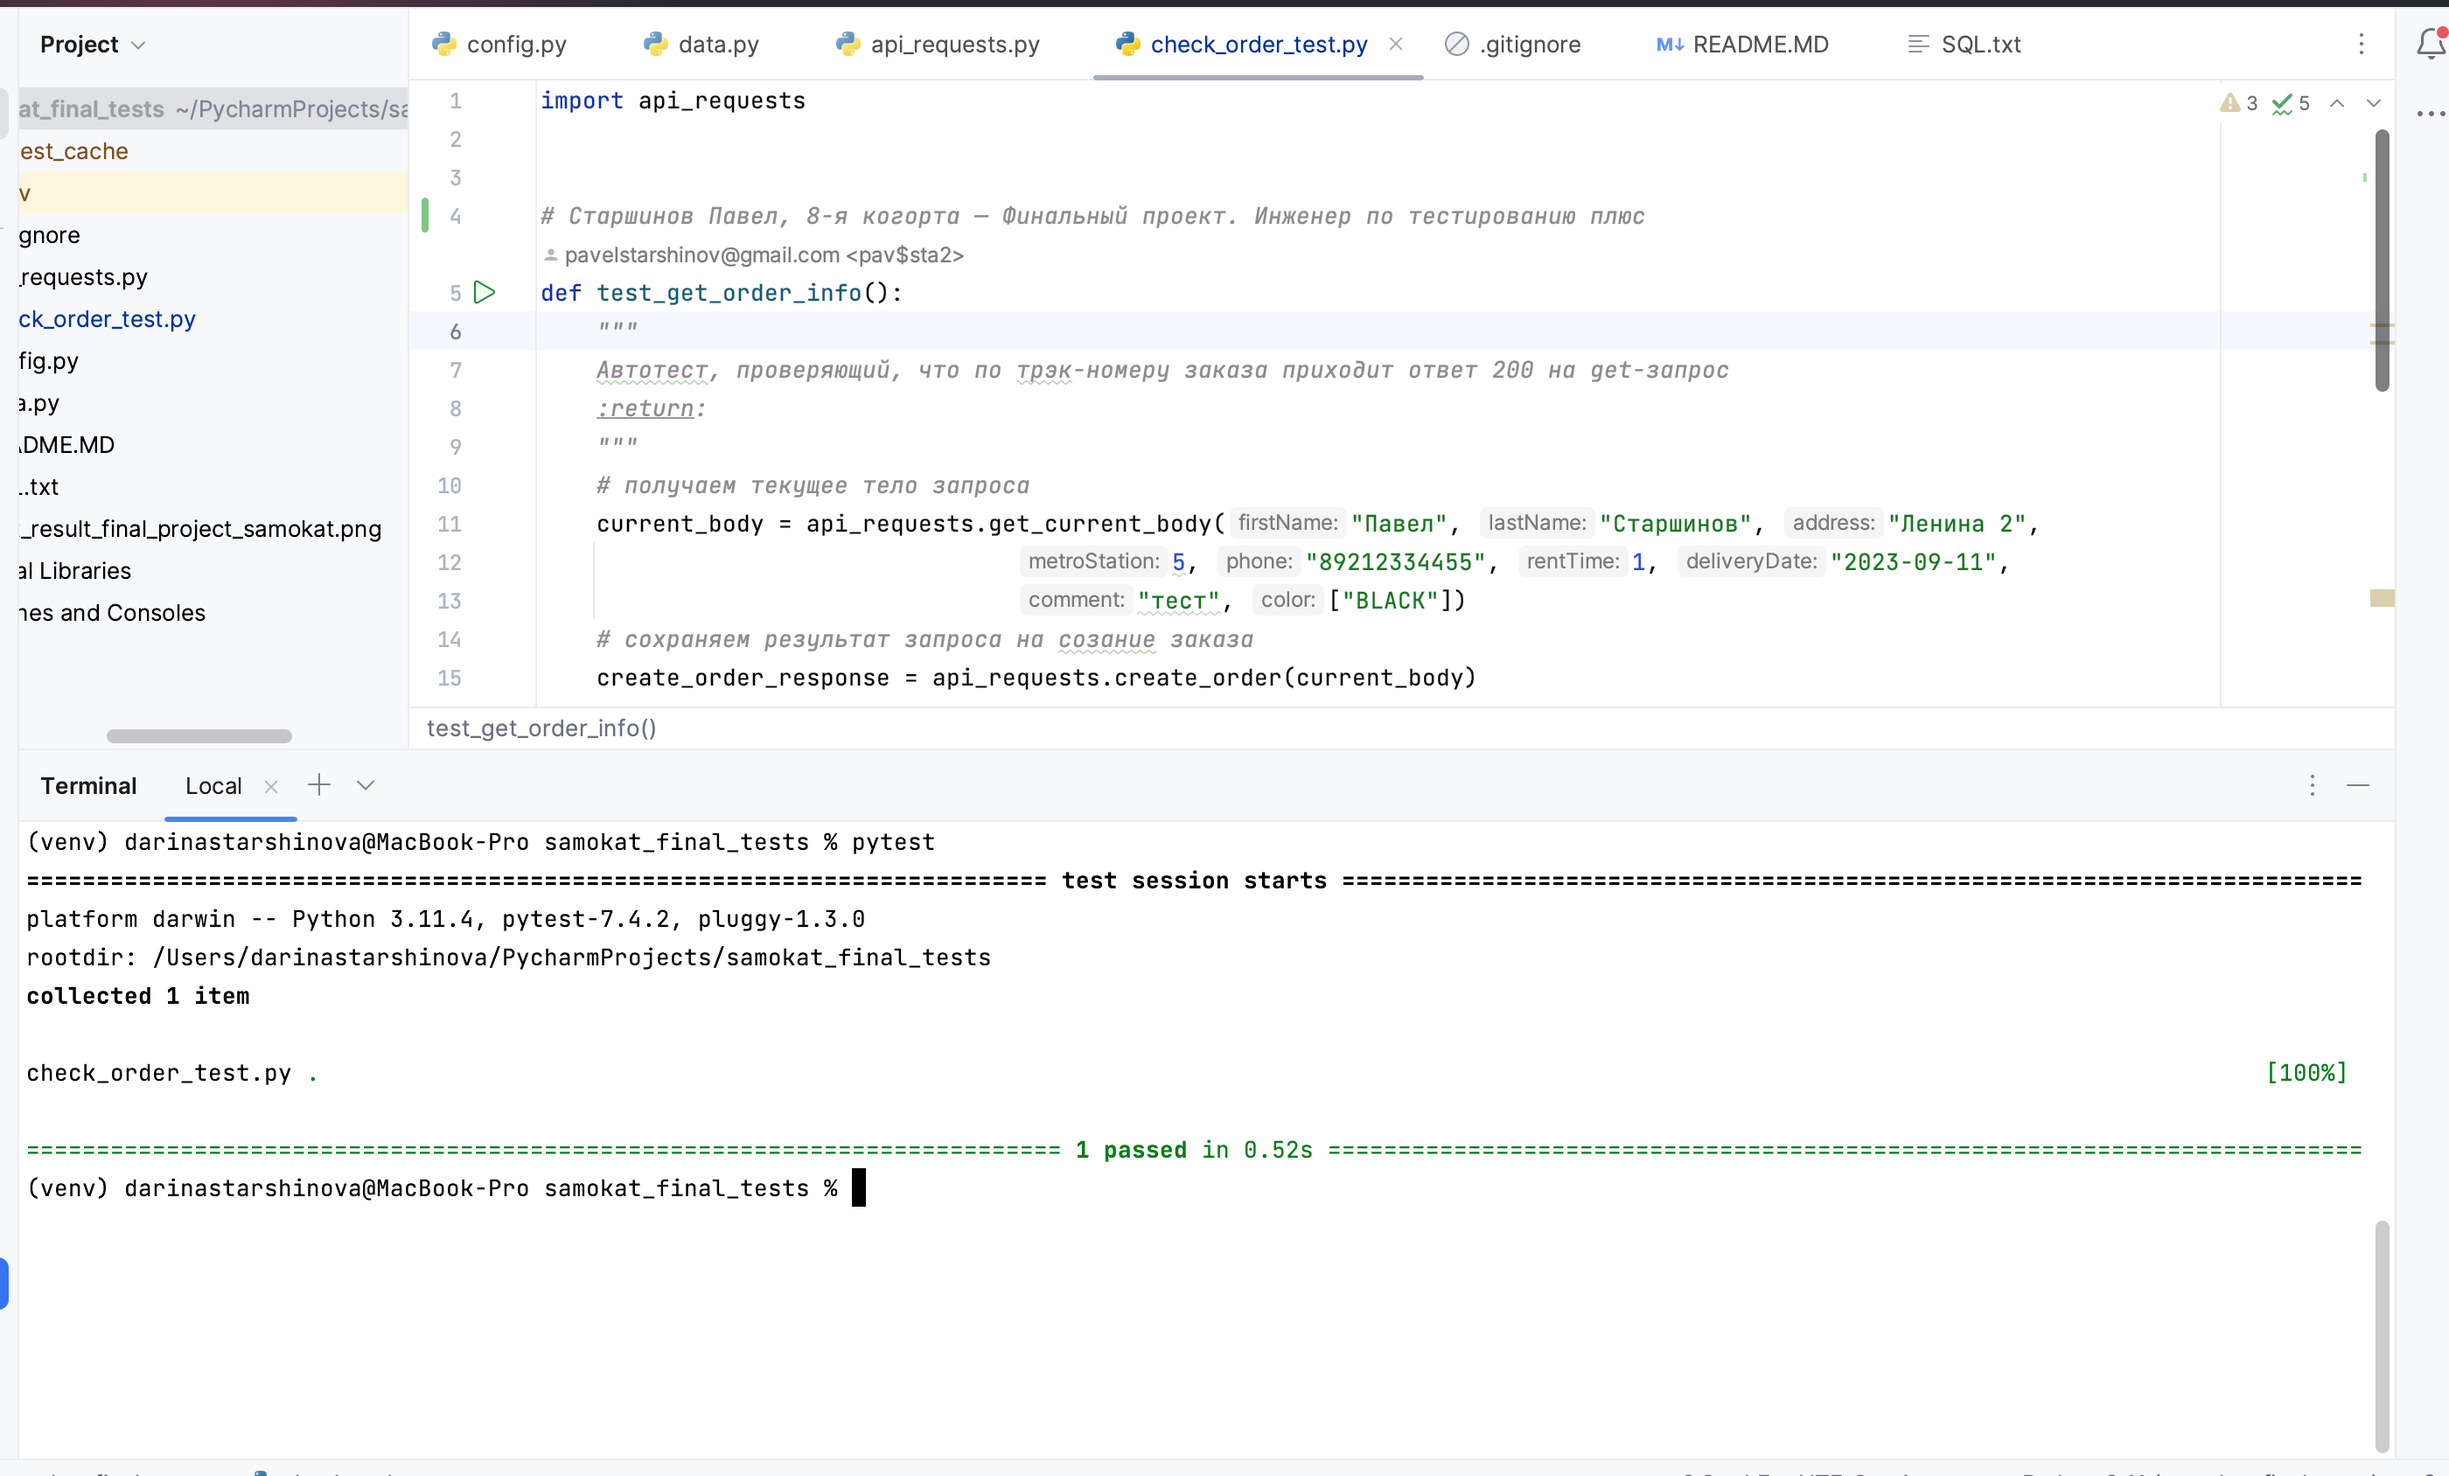
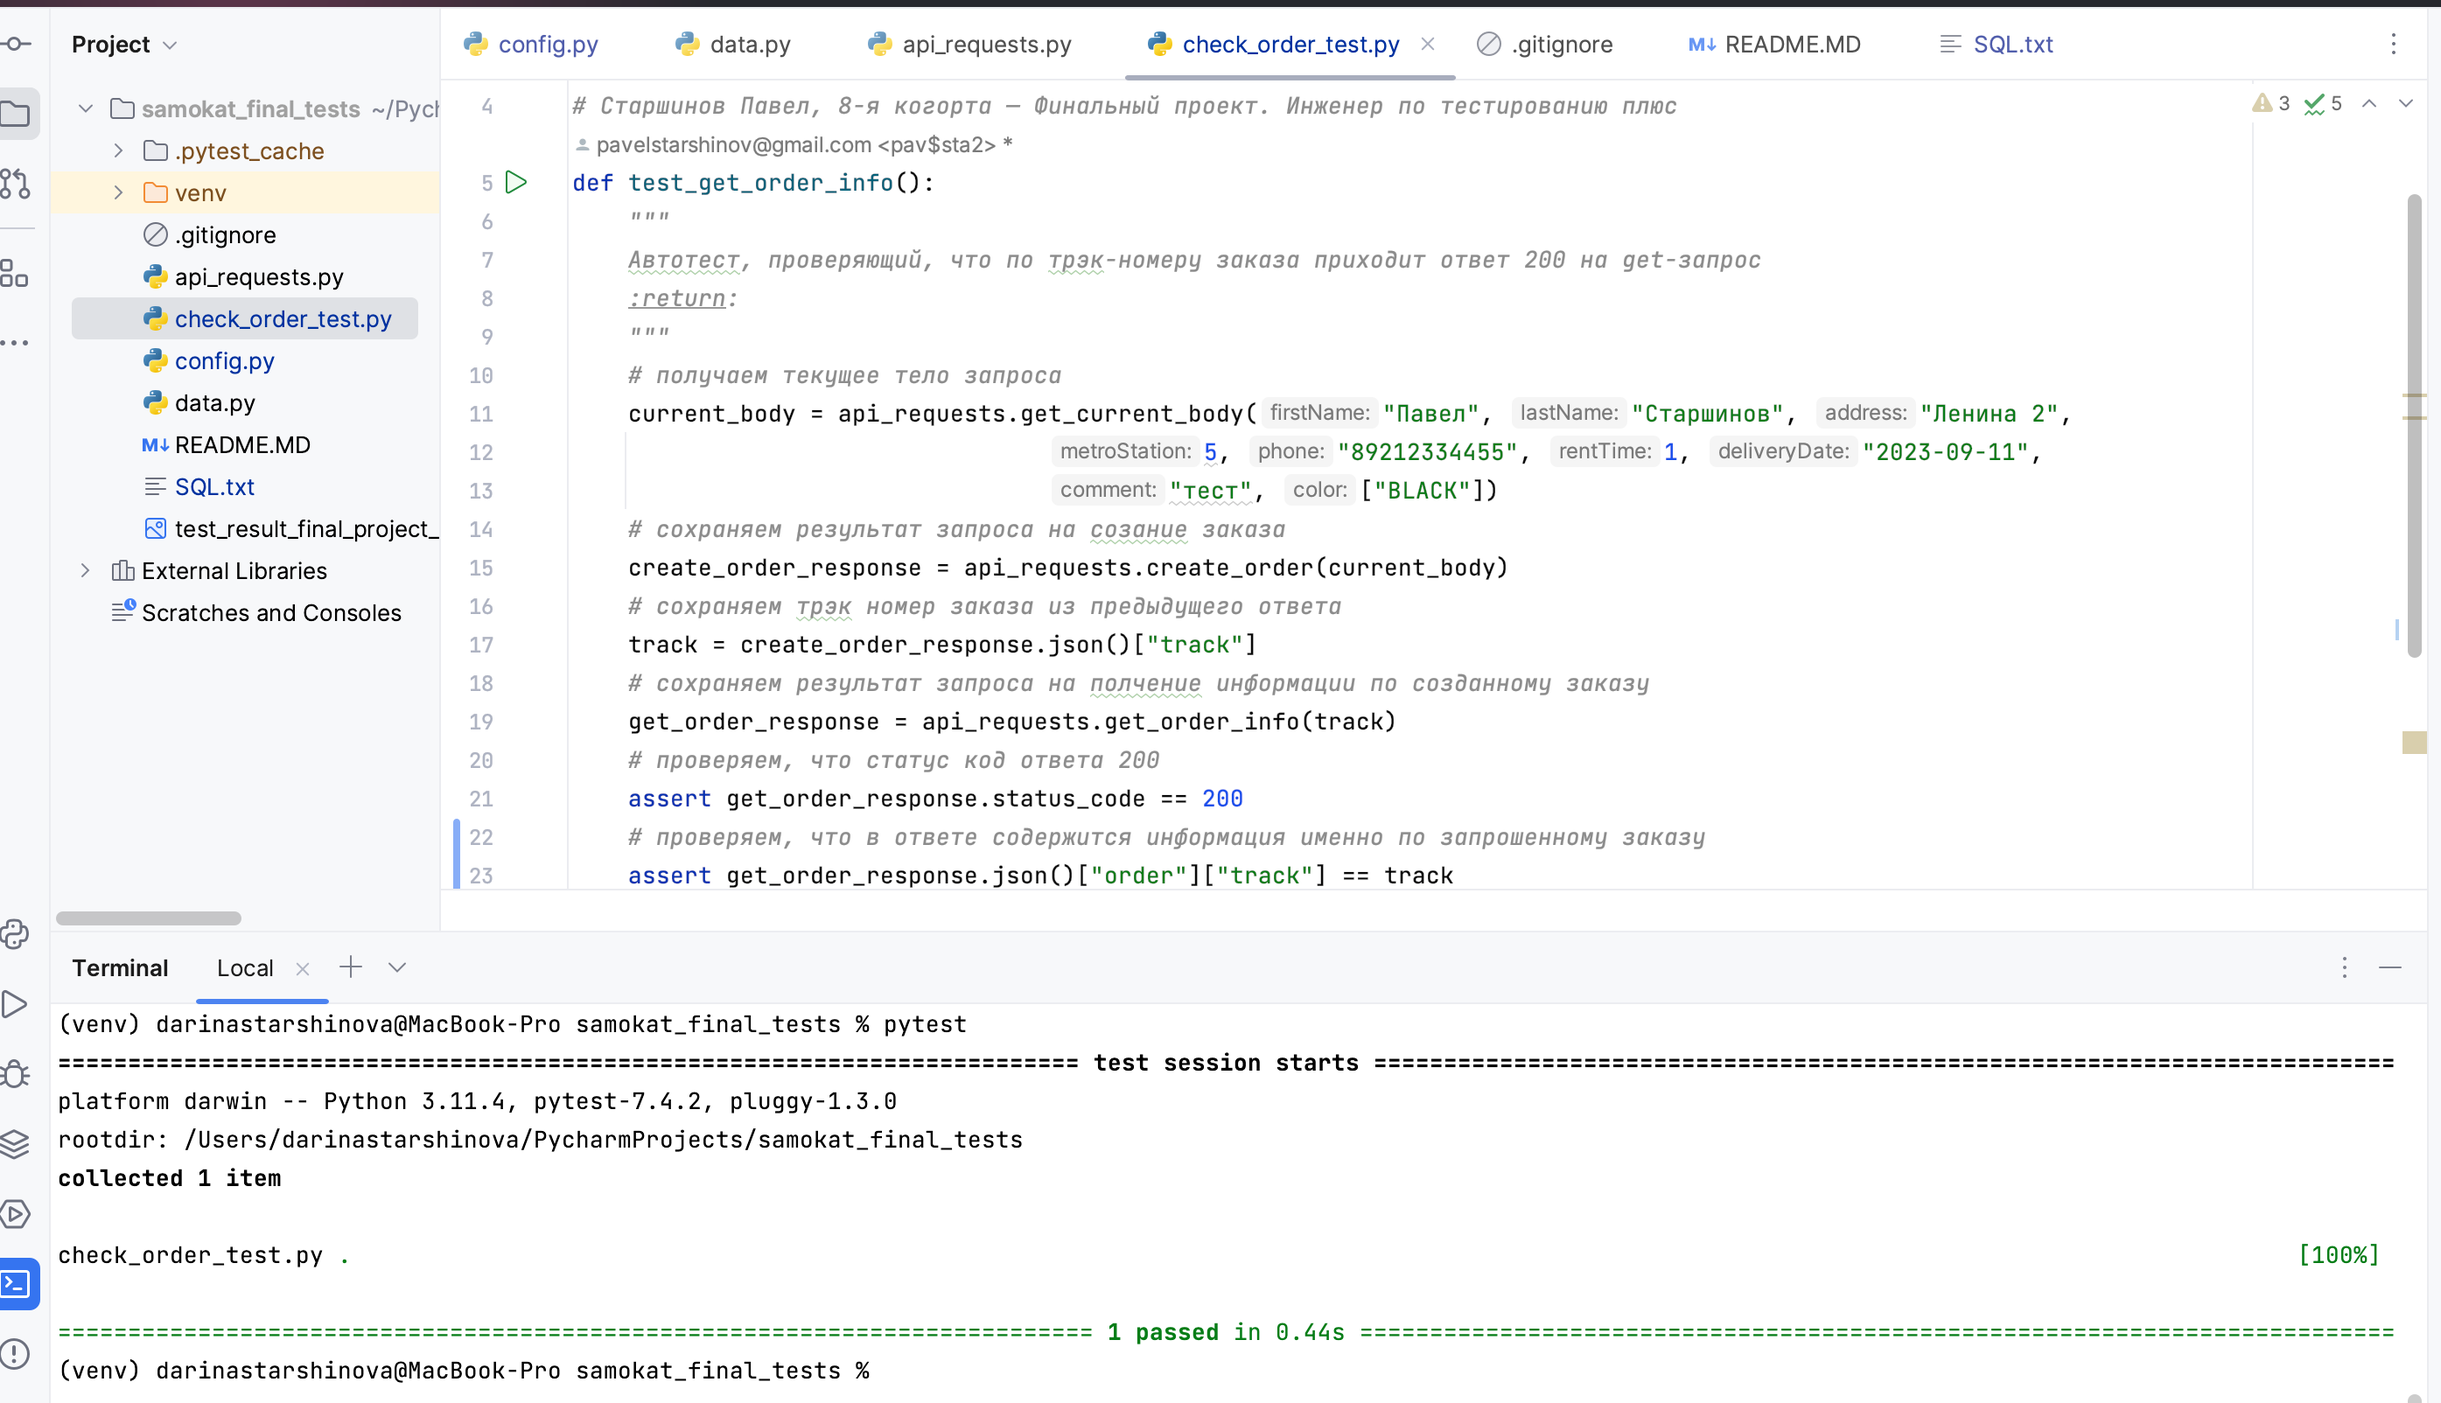
1st review corrections

diff --git a/check_order_test.py b/check_order_test.py
@@ -19,9 +19,8 @@ def test_get_order_info():
     get_order_response = api_requests.get_order_info(track)
     # проверяем, что статус код ответа 200
     assert get_order_response.status_code == 200
-    # эта проверка не проходит, подробности прописал в файле README
-    # assert get_order_response.json()["order"]["track"] == track
-
+    # проверяем, что в ответе содержится информация именно по запрошенному заказу
+    assert get_order_response.json()["order"]["track"] == track
 
 
 

diff --git a/config.py b/config.py
@@ -1,3 +1,3 @@
-URL_HOST = "https://13a12029-55fb-40e1-ae54-ed5ba699cc3e.serverhub.praktikum-services.ru"
+URL_HOST = "https://6cd627ba-248b-4a57-a64e-570ae695e538.serverhub.praktikum-services.ru"
 CREATE_ORDER_PATH = "/api/v1/orders"
-GET_ORDER_PATH = "/v1/orders/track"
+GET_ORDER_PATH = "/api/v1/orders/track"
